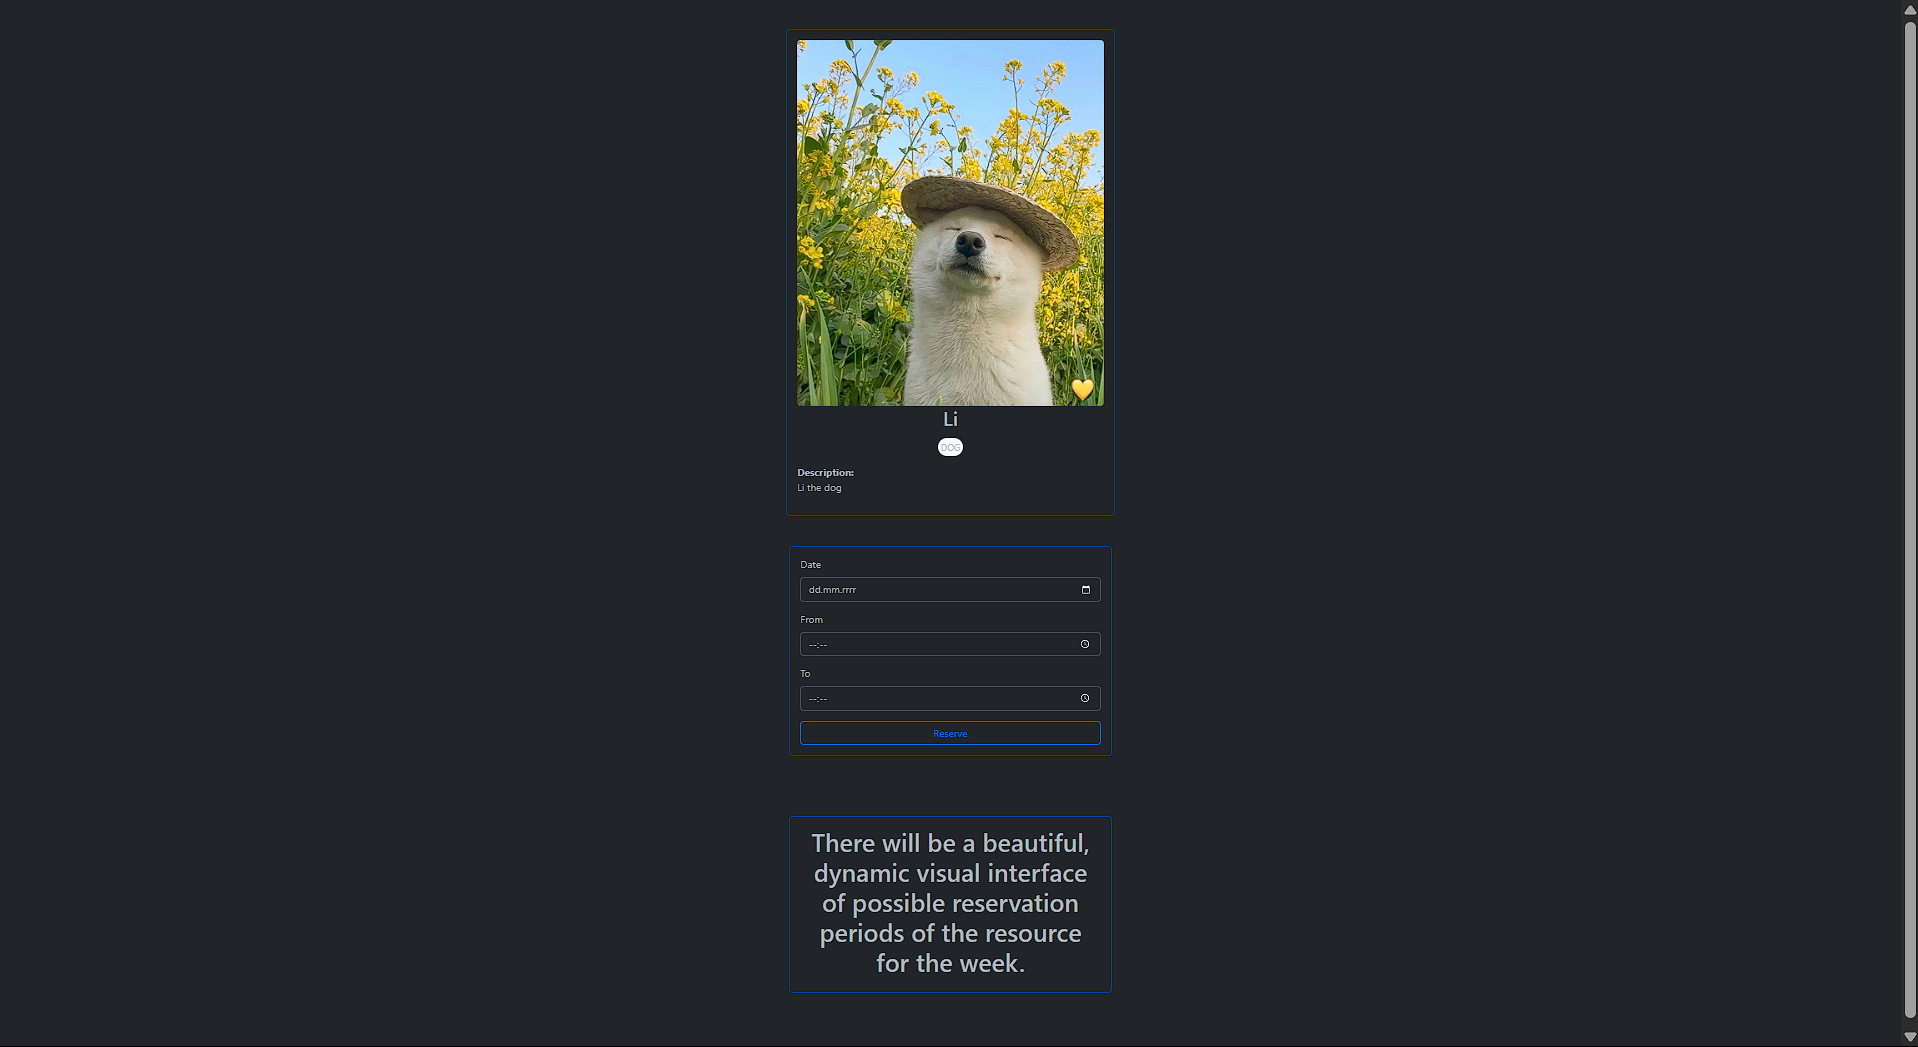
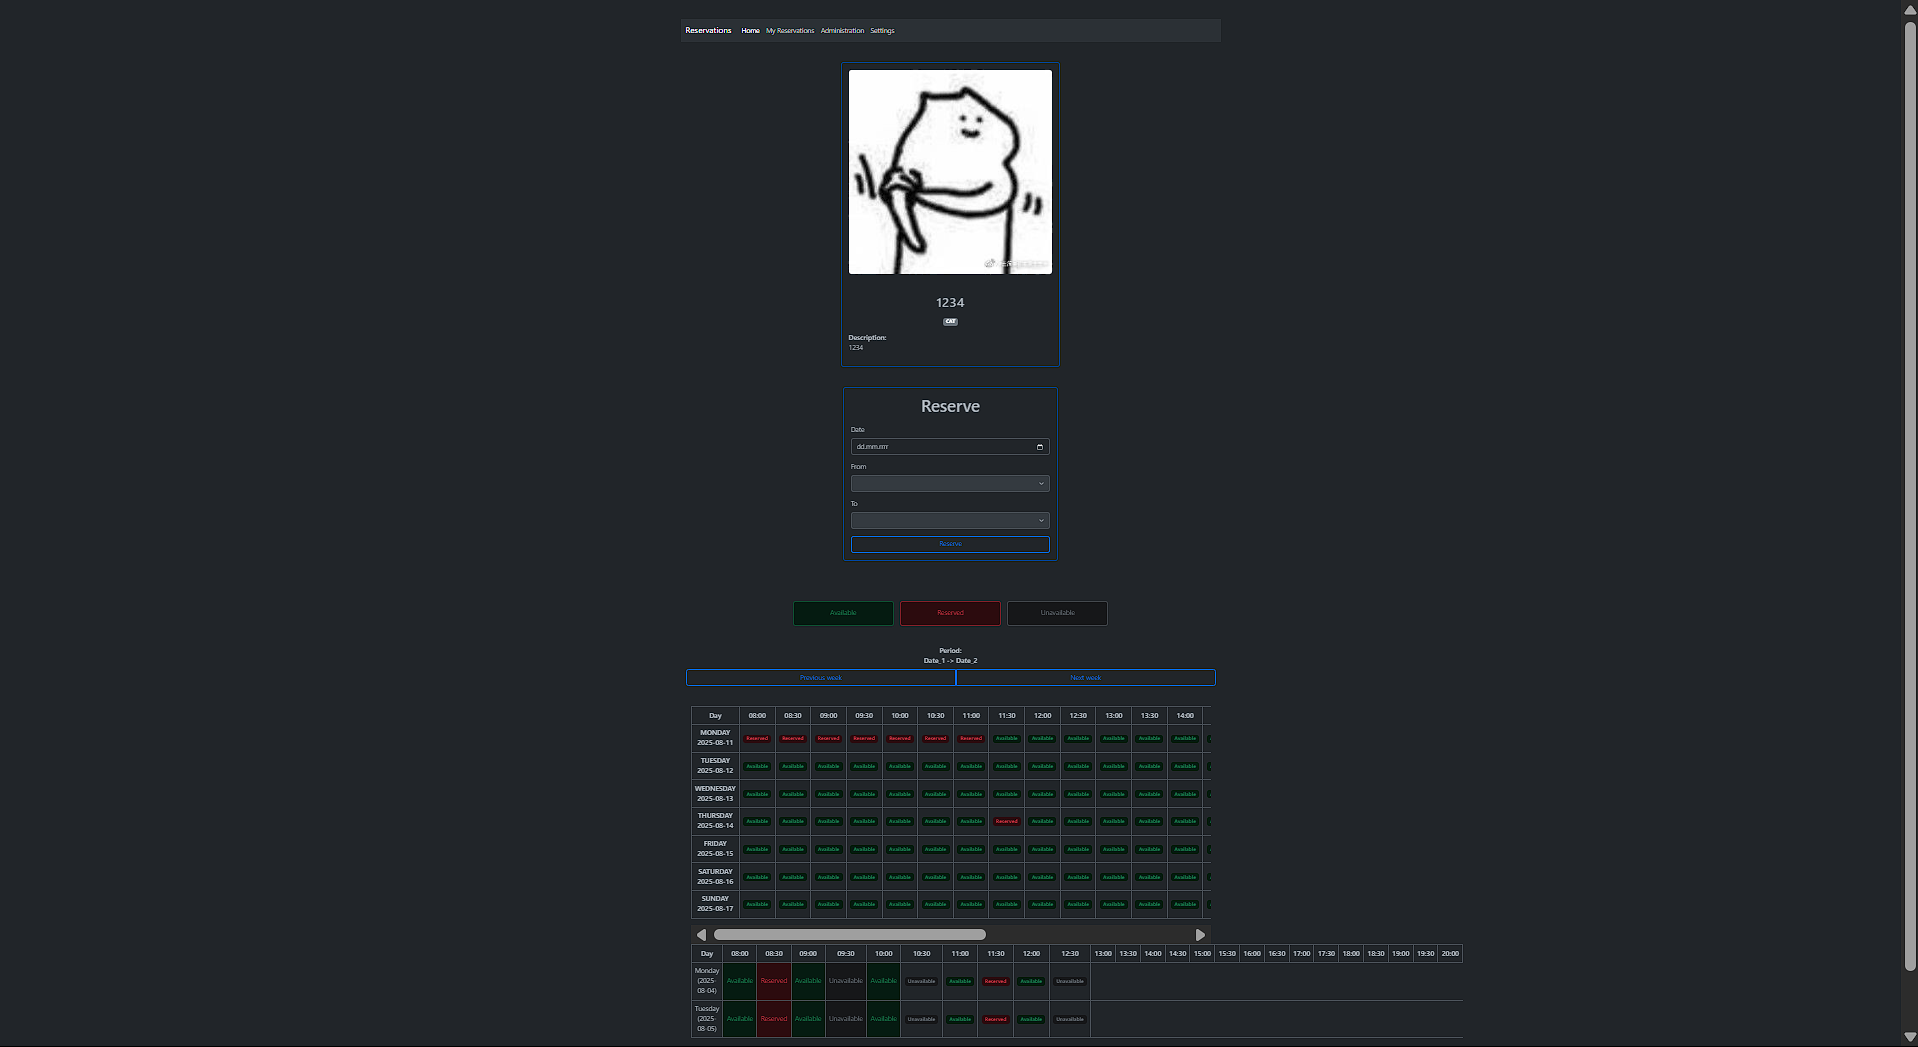
Reservation view, controller, service
1. Removed last time period of the reservation from calendar view.

2. Added navbar to resource-detail view.

Changed region(s): [[0.3384, 0.0, 0.769, 1.0], [0.9844, 0.9169, 1.0, 0.978]]

diff --git a/src/main/resources/templates/resource-detail.html b/src/main/resources/templates/resource-detail.html
@@ -1,5 +1,5 @@
 <!DOCTYPE html>
-<html xmlns:th="http://www.thymeleaf.org"
+<html xmlns:th="http://www.thymeleaf.org" xmlns:sec="http://www.w3.org/1999/xhtml"
       lang="en"
       data-bs-theme="dark">
 <head>
@@ -10,6 +10,38 @@
 
 <body class="min-vh-100 justify-content-center align-items-center">
 <div class="container py-5">
+
+    <!--Webpage navigation bar-->
+    <nav class="navbar navbar-expand-md bg-body-tertiary mb-4">
+        <div class="container-fluid">
+            <a class="navbar-brand" href="http://localhost:8080/home">Reservations</a>
+            <button class="navbar-toggler" type="button" data-bs-toggle="collapse"
+                    data-bs-target="#navbarSupportedContent"
+                    aria-controls="navbarSupportedContent" aria-expanded="false" aria-label="Toggle navigation">
+                <span class="navbar-toggler-icon"></span>
+            </button>
+
+            <div class="collapse navbar-collapse" id="navbarSupportedContent">
+                <ul class="navbar-nav mr-auto">
+                    <li class="nav-item">
+                        <a class="nav-link active" href="http://localhost:8080/home">
+                            Home
+                            <span class="sr-only"></span>
+                        </a>
+                    </li>
+                    <li class="nav-item">
+                        <a class="nav-link" href="http://localhost:8080/reservations">My Reservations</a>
+                    </li>
+                    <li class="nav-item" sec:authorize="hasRole('EMPLOYEE')">
+                        <a class="nav-link" href="#">Administration</a>
+                    </li>
+                    <li class="nav-item" sec:authorize="hasRole('EMPLOYEE')">
+                        <a class="nav-link" href="#">Settings</a>
+                    </li>
+                </ul>
+            </div>
+        </div>
+    </nav>
 
     <!--Resource Card-->
     <div class="row justify-content-center">

diff --git a/src/main/resources/templates/home.html b/src/main/resources/templates/home.html
@@ -140,8 +140,8 @@
                                 <!--Description-->
                                 <div class="mb-3">
                                     <label for="description" class="form-label">Description</label>
-                                    <input type="text" th:field="*{description}" class="form-control" id="description"
-                                           required/>
+                                    <textarea th:field="*{description}" class="form-control" id="description" rows="4"
+                                              required></textarea>
                                     <div class="text-danger" th:if="${#fields.hasErrors('description')}"
                                          th:errors="*{description}"></div>
                                 </div>

diff --git a/src/main/java/com/dunnnan/reservations/service/ReservationService.java b/src/main/java/com/dunnnan/reservations/service/ReservationService.java
@@ -86,7 +86,7 @@ public class ReservationService {
     public Set<LocalTime> getOccupiedHoursDuringTheDay(Long resourceId, LocalDate date) {
         return getAllReservationsByDateAndResourceId(resourceId, date).stream()
                 .flatMap(reservation -> timeUtil.getAllPossibleReservationHours(
-                        reservation.getFrom(), reservation.getTo()).stream()
+                        reservation.getFrom(), reservation.getTo(), false).stream()
                 )
                 .collect(Collectors.toSet());
     }
@@ -117,7 +117,8 @@ public class ReservationService {
 
         return timeUtil.getAllPossibleReservationHours(
                 Collections.min(calendarHours),
-                Collections.max(calendarHours)
+                Collections.max(calendarHours),
+                false
         );
     }
 
@@ -137,7 +138,7 @@ public class ReservationService {
 
         // Get all hours possible hours and exclude occupied ones
         Set<LocalTime> validHours = new HashSet<>(timeUtil.getAllPossibleReservationHours(
-                openingTime, closingTime));
+                openingTime, closingTime, true));
         validHours.removeAll(occupiedHours);
 
         // Remove past hours (today)
@@ -169,7 +170,7 @@ public class ReservationService {
         LocalTime closingTime = availability.get(1);
 
         // Get possible reservation hours
-        List<LocalTime> allPossibleHours = timeUtil.getAllPossibleReservationHours(openingTime, closingTime);
+        List<LocalTime> allPossibleHours = timeUtil.getAllPossibleReservationHours(openingTime, closingTime, false);
 
         // Specify occupied hours
         Set<LocalTime> occupiedHours = getOccupiedHoursDuringTheDay(resourceId, date);
@@ -213,6 +214,7 @@ public class ReservationService {
         try {
             model.addAttribute("calendarData", getReservationCalendar(resourceId, weeksLater));
             model.addAttribute("calendarHours", getMaxReservationHourRangeForWeek(resourceId, weeksLater));
+            model.addAttribute("weeksLater", weeksLater);
         } catch (Exception e) {
             model.addAttribute("calendarData", null);
         }

diff --git a/src/main/java/com/dunnnan/reservations/service/ResourceService.java b/src/main/java/com/dunnnan/reservations/service/ResourceService.java
@@ -15,10 +15,10 @@ import org.springframework.data.domain.Sort;
 import org.springframework.stereotype.Service;
 
 import java.io.IOException;
-import java.time.LocalDate;
-import java.time.LocalTime;
-import java.util.*;
-import java.util.stream.IntStream;
+import java.util.ArrayList;
+import java.util.List;
+import java.util.Map;
+import java.util.Optional;
 
 @Service
 public class ResourceService {
@@ -173,32 +173,6 @@ public class ResourceService {
         return resourceRepository.findById(id).orElseThrow(
                 () -> new RuntimeException("Resource with id: " + id + " was not found")
         );
-    }
-
-    public LocalDate calculateStartDate(LocalDate today, short weeksLater) {
-        return today.plusWeeks(weeksLater);
-    }
-
-    public List<LocalDate> getWeekDays(LocalDate startDate) {
-        return IntStream.range(0, 7)
-                .mapToObj(startDate::plusDays)
-                .toList();
-    }
-
-    // Do oddzielnej klasy
-    public Map<LocalDate, List<LocalTime>> getReservationWeekDisplayInfo(LocalDate today, short weeksLater) {
-        Map<LocalDate, List<LocalTime>> reservations = new HashMap<>();
-        Map<LocalDate, List<LocalTime>> availability = new HashMap<>();
-
-        LocalDate startDate = calculateStartDate(today, weeksLater);
-        List<LocalDate> weekDays = getWeekDays(startDate);
-
-        for (LocalDate day : weekDays) {
-//            reservations.put(day, reservationService.);
-//            availability.put(day, availabilityService.);
-        }
-
-        return reservations;
     }
 
 }

diff --git a/src/main/java/com/dunnnan/reservations/util/TimeUtil.java b/src/main/java/com/dunnnan/reservations/util/TimeUtil.java
@@ -2,7 +2,6 @@ package com.dunnnan.reservations.util;
 
 import com.dunnnan.reservations.constants.ReservationConstants;
 import org.springframework.beans.factory.annotation.Autowired;
-import org.springframework.cglib.core.Local;
 import org.springframework.stereotype.Component;
 
 import java.time.Duration;
@@ -16,7 +15,7 @@ public class TimeUtil {
     @Autowired
     ReservationConstants reservationConstants;
 
-    public List<LocalTime> getAllPossibleReservationHours(LocalTime start, LocalTime end) {
+    public List<LocalTime> getAllPossibleReservationHours(LocalTime start, LocalTime end, boolean includeLastPeriod) {
         List<LocalTime> allPossibleReservationHours = new ArrayList<>();
 
         LocalTime period = start;
@@ -28,7 +27,9 @@ public class TimeUtil {
         }
 
         // Add last period
-        allPossibleReservationHours.add(period);
+        if (includeLastPeriod) {
+            allPossibleReservationHours.add(period);
+        }
 
         return allPossibleReservationHours;
     }

diff --git a/src/main/java/com/dunnnan/reservations/controller/ResourceController.java b/src/main/java/com/dunnnan/reservations/controller/ResourceController.java
@@ -128,7 +128,6 @@ public class ResourceController {
         if (resource.isPresent()) {
             model.addAttribute("resource", resource.get());
             model.addAttribute("reservation", new ReservationDto());
-            model.addAttribute("weeksLater", weeksLater);
 
             reservationService.addCalendarDataToModel(id, weeksLater, model);
 
